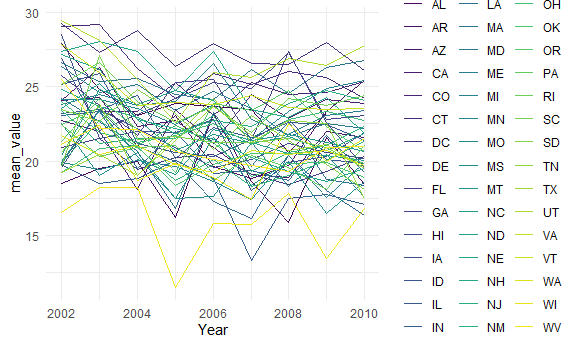
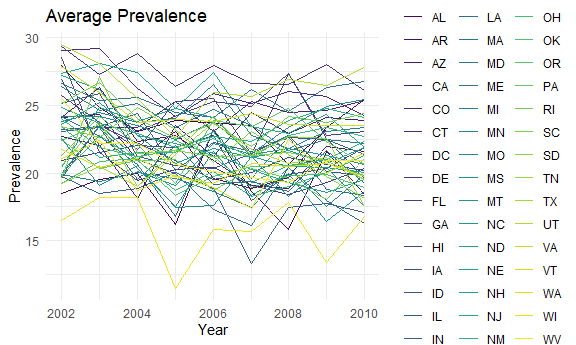
Final Checked on Monday

diff --git a/homework3.md b/homework3.md
@@ -80,9 +80,9 @@ data("instacart")
    instacart %>% 
    filter(aisle %in% c("baking ingredients","dog food care","packaged vegetables fruits")) %>% 
    group_by(aisle, product_name) %>% 
-   summarise(product_num = n()) %>% 
-   arrange(desc(product_num),.by_group = T) %>% 
-   slice_max(order_by = product_num,n = 3)  
+   summarise(order_count = n()) %>% 
+   arrange(desc(order_count),.by_group = T) %>% 
+   slice_max(order_by = order_count,n = 3)  
 ```
 
     ## `summarise()` has grouped output by 'aisle'. You can override using the `.groups` argument.
@@ -93,7 +93,7 @@ data("instacart")
     knitr::kable()
 ```
 
-| aisle                      | product\_name                                 | product\_num |
+| aisle                      | product\_name                                 | order\_count |
 |:---------------------------|:----------------------------------------------|-------------:|
 | baking ingredients         | Light Brown Sugar                             |          499 |
 | baking ingredients         | Pure Baking Soda                              |          387 |
@@ -111,7 +111,7 @@ hour_df =
   instacart %>% 
   filter(product_name %in% c("Pink Lady Apples","Coffee Ice Cream"))%>% 
   group_by(product_name,order_dow) %>% 
-  summarize(mean_order_time = round(mean(order_hour_of_day),2)) %>% 
+  summarize(mean_order_time = round(mean(order_hour_of_day))) %>% 
   pivot_wider(
     names_from = order_dow,
     values_from = mean_order_time
@@ -131,16 +131,32 @@ hour_df %>%
 
 | product\_name    | Sunday | Monday | Tuesday | Wednesday | Thursday | Friday | Saturday |
 |:-----------------|-------:|-------:|--------:|----------:|---------:|-------:|---------:|
-| Coffee Ice Cream |  13.77 |  14.32 |   15.38 |     15.32 |    15.22 |  12.26 |    13.83 |
-| Pink Lady Apples |  13.44 |  11.36 |   11.70 |     14.25 |    11.55 |  12.78 |    11.94 |
+| Coffee Ice Cream |     14 |     14 |      15 |        15 |       15 |     12 |       14 |
+| Pink Lady Apples |     13 |     11 |      12 |        14 |       12 |     13 |       12 |
 
 There are 134 aisles and the *fresh vegetables aisle* is the where most
 items are ordered from.
 
+From the plot we can see that fresh vegetables and fresh fruits are the
+2 aisles where most items were order from and are way more than any
+other aisles.Packaged vegetables and fruits, yogurt,packaged cheese
+followed next.
+
+In the “baking ingredients aisles” light brown sugar is ordered the
+most. In the “dog food care” aisles Snack Sticks Chicken & Rice Recipe
+Dog Treats is ordered the most. In the “packaged fruits and vegetables”
+aisle Organic Baby Spinach is ordered th most.
+
+For Coffee Ice-cream, the order is slightly higher during the middle of
+the week, from Tuesday to Thursday. Pink Lady Apples are ordered the
+most on Wednesday.
+
 # Problem 2
 
 ``` r
+#load the data
 data("brfss_smart2010")
+
 #clean variable names
 brfss_smart2010_1=
  brfss_smart2010 %>% 
@@ -159,13 +175,6 @@ brfss_df_1 =
 
 #In 2002, which states were observed at 7 or more locations? What about in 2010?
 #2002
-#group by doesn't work
- brfss_df_2 = 
-   brfss_df_1 %>% 
-   filter(Year == 2002) %>% 
-   group_by(State) %>%
-  summarize(loc_num = n())
-
 brfss_df_2 = 
   brfss_df_1 %>% 
   filter(Year == 2002) %>% 
@@ -180,9 +189,10 @@ brfss_df_3 =
   group_by(State) %>%
   summarize(loc_num = n())%>% 
   filter(loc_num >= 7)
+
 #states in 2002
 states_2002 = pull(brfss_df_2,State)
-
+#States in 2010
 states_2010 = pull(brfss_df_3,State)
 
 #answer only Excellent
@@ -200,6 +210,11 @@ mutate(
 brfss_df_4 %>% 
   ggplot(aes(x = Year, y = mean_value, color = State))+
   geom_line()+
+   labs(
+    title = "Average Prevalence",
+    x = "Year",
+    y = "Prevalence",
+    )+
   theme(legend.position = "right")
 ```
 
@@ -208,18 +223,154 @@ brfss_df_4 %>%
 ``` r
 #Make a two-panel plot showing, for the years 2006, and 2010, distribution of data_value for responses (“Poor” to “Excellent”) among locations in NY State
  
-
 brfss_df_5 =
   brfss_df_1 %>% 
   filter(Year %in% c(2006,2010)) %>% 
   filter(State == "NY")
 
-
 brfss_df_5 %>% 
-ggplot(aes(x = Location , y = Data_value))+
+ggplot(aes(x = Location , y = Data_value, color = Response))+
   geom_point()+
   facet_grid(.~ Year)+
-   theme(axis.text.x=element_text(angle = 60, vjust = 0.5, hjust = 1))# response?
+   labs(
+    title = "Comparison of answers between 2006 and 2010 in New York",
+    x = "Locations",
+    y = "Prevalence",
+    )+
+   theme(axis.text.x=element_text(angle = 60, vjust = 0.5, hjust = 0.5), legend.position = "right")
 ```
 
 <img src="homework3_files/figure-gfm/unnamed-chunk-3-2.png" width="90%" />
+
+In 2002 AZ, CO, CT, DE, FL, GA, HI, ID, IL, IN, KS, LA, MA, MD, ME, MI,
+MN, MO, NC, NE, NH, NJ, NV, NY, OH, OK, OR, PA, RI, SC, SD, TN, TX, UT,
+VT, WA were observed in more than 7 locations. In 2010 AL, AR, AZ, CA,
+CO, CT, DE, FL, GA, HI, IA, ID, IL, IN, KS, LA, MA, MD, ME, MI, MN, MO,
+MS, MT, NC, ND, NE, NH, NJ, NM, NV, NY, OH, OK, OR, PA, RI, SC, SD, TN,
+TX, UT, VT, WA, WY were observed in more than 7 locations.
+
+The average prevalence across different locations within a State with
+the answer “Excellent” was fluctuating between 20 to 25. And West
+Virginia has a extreme low mean in 2005 compared to the other states and
+remained low in the following years.
+
+Comparing the prevalence in general between 2010 and 2006, we can see
+that most people answered “Very good” or “Good”,only a small amount of
+people answered “Poor”. There are slightly more people answered “Very
+good” in 2010 than 2006 and the prevalence for other answers stayed
+about the same.
+
+# Probelm 3
+
+``` r
+ACC_df = read_csv("./homework3_files/accel_data.csv")
+
+ACC_df1 =
+  ACC_df %>% 
+  janitor::clean_names() %>%
+  rename(id = day_id) %>% 
+  mutate(weekdays = ifelse(day %in% c("Monday","Tuesday","Wednesday","Thursday","Friday"),1,0)) #weekday=1,weekend=0
+
+obs = nrow(ACC_df1)
+col = ncol(ACC_df1)
+```
+
+**Description**
+
+There are 35 observation in this data set which represent the days when
+the data were collected. There are 1444 variables which includes `week`
+variable indicating the number of week and `id` variable indicating the
+number of days. The `day` variable represent the week names of the day.
+Variable `activity_1` to `activity_1440` indicates the activity counts
+in every minute starting from midnight throughout the day. `weekdays`
+variable is a binary variable indicating if it is weekend or not by
+labeling weekdays as 1 and weekend as 0.
+
+``` r
+# activity counts by day
+
+ACC_df2 =
+  ACC_df1 %>% 
+  mutate(total = rowSums(select(ACC_df1,activity_1:activity_1440))) %>% 
+  select(week,id,weekdays,day,total) 
+
+#table
+  knitr::kable(ACC_df2)
+```
+
+| week |  id | weekdays | day       |     total |
+|-----:|----:|---------:|:----------|----------:|
+|    1 |   1 |        1 | Friday    | 480542.62 |
+|    1 |   2 |        1 | Monday    |  78828.07 |
+|    1 |   3 |        0 | Saturday  | 376254.00 |
+|    1 |   4 |        0 | Sunday    | 631105.00 |
+|    1 |   5 |        1 | Thursday  | 355923.64 |
+|    1 |   6 |        1 | Tuesday   | 307094.24 |
+|    1 |   7 |        1 | Wednesday | 340115.01 |
+|    2 |   8 |        1 | Friday    | 568839.00 |
+|    2 |   9 |        1 | Monday    | 295431.00 |
+|    2 |  10 |        0 | Saturday  | 607175.00 |
+|    2 |  11 |        0 | Sunday    | 422018.00 |
+|    2 |  12 |        1 | Thursday  | 474048.00 |
+|    2 |  13 |        1 | Tuesday   | 423245.00 |
+|    2 |  14 |        1 | Wednesday | 440962.00 |
+|    3 |  15 |        1 | Friday    | 467420.00 |
+|    3 |  16 |        1 | Monday    | 685910.00 |
+|    3 |  17 |        0 | Saturday  | 382928.00 |
+|    3 |  18 |        0 | Sunday    | 467052.00 |
+|    3 |  19 |        1 | Thursday  | 371230.00 |
+|    3 |  20 |        1 | Tuesday   | 381507.00 |
+|    3 |  21 |        1 | Wednesday | 468869.00 |
+|    4 |  22 |        1 | Friday    | 154049.00 |
+|    4 |  23 |        1 | Monday    | 409450.00 |
+|    4 |  24 |        0 | Saturday  |   1440.00 |
+|    4 |  25 |        0 | Sunday    | 260617.00 |
+|    4 |  26 |        1 | Thursday  | 340291.00 |
+|    4 |  27 |        1 | Tuesday   | 319568.00 |
+|    4 |  28 |        1 | Wednesday | 434460.00 |
+|    5 |  29 |        1 | Friday    | 620860.00 |
+|    5 |  30 |        1 | Monday    | 389080.00 |
+|    5 |  31 |        0 | Saturday  |   1440.00 |
+|    5 |  32 |        0 | Sunday    | 138421.00 |
+|    5 |  33 |        1 | Thursday  | 549658.00 |
+|    5 |  34 |        1 | Tuesday   | 367824.00 |
+|    5 |  35 |        1 | Wednesday | 445366.00 |
+
+There aren’t any apparent trend we can see from this table.But we can
+see 2 Saturdays with extreme low activity count.
+
+``` r
+#plot #x-labels
+
+Activity = 
+  ACC_df1 %>% 
+  select(day,activity_1:activity_1440) %>% 
+ pivot_longer(
+   activity_1:activity_1440,
+   names_to = "time",
+   names_prefix = "activity_",
+   values_to = "count"
+ ) %>% 
+  mutate(time = as.numeric(time))
+
+
+
+Activity %>% 
+ggplot(aes( x = time, y = count, color = day))+ 
+  geom_line(alpha = 0.5)+ labs(
+    title = "Activity Count within a Day ",
+    x = "Time",
+    y = "Activity Count",
+    )+
+  theme(legend.position = "right")+
+  scale_x_continuous(
+    breaks = c(1,360,720,1080,1440),
+    labels = c("12AM", "6AM", "12PM", "6PM", "11:59PM")
+    )
+```
+
+<img src="homework3_files/figure-gfm/unnamed-chunk-6-1.png" width="90%" />
+
+We can see that the activity count in every minute throughout the day is
+usually below 2500. The activity count at noon and evenings tends to
+peak compared to the other time of the day.
